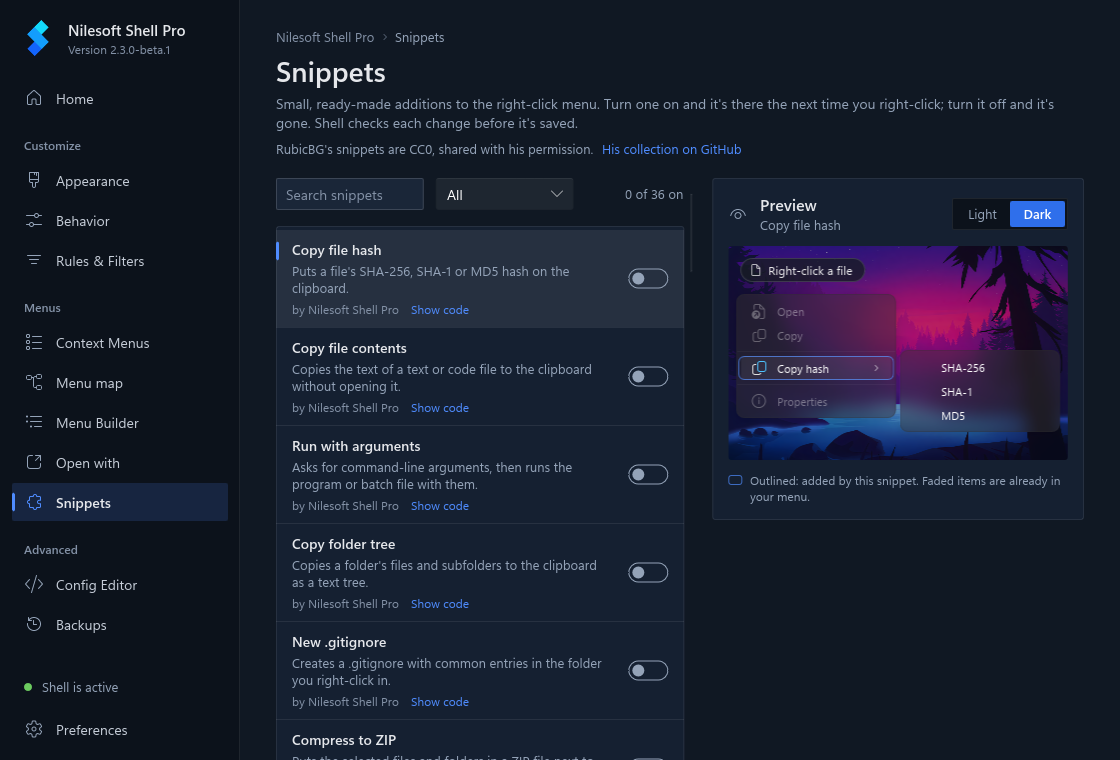
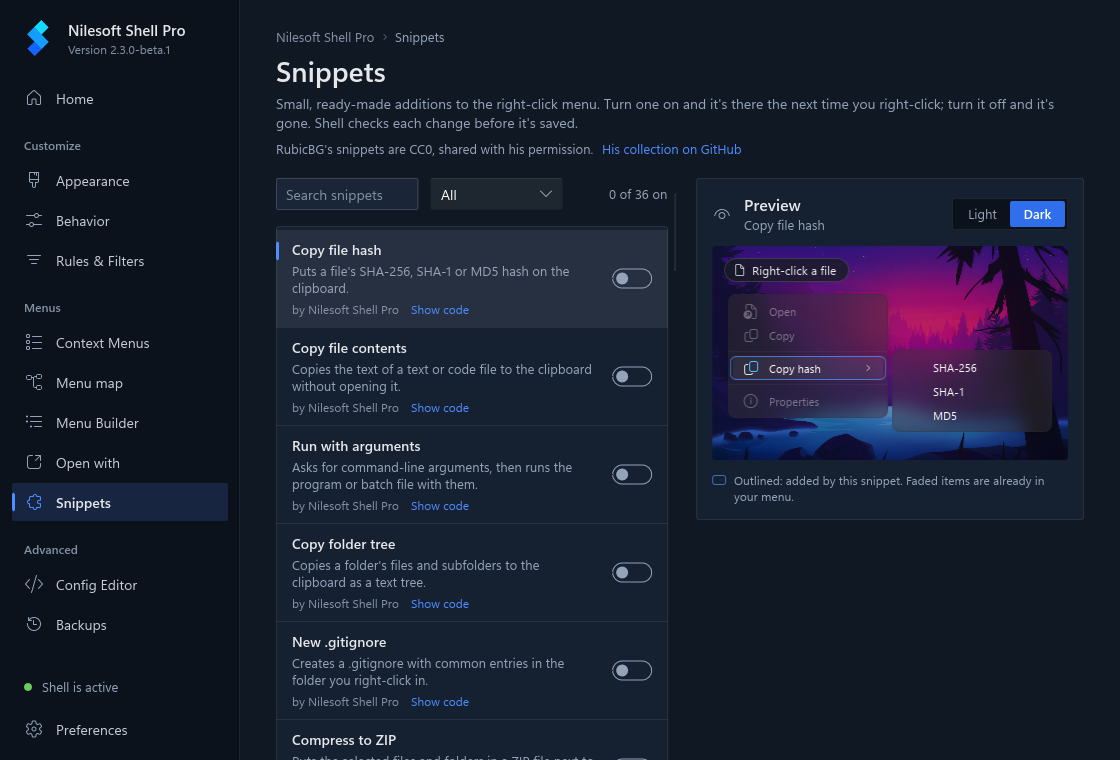
docs: Snippets preview example names; new Snippets page screenshot

diff --git a/docs/app/snippets.html b/docs/app/snippets.html
@@ -54,7 +54,9 @@
 	<li>When a snippet adds items in more than one place, buttons above the menu switch between them: <i>File</i>,
 		<i>Folder</i>, <i>Background</i> (the empty space in a folder), <i>Desktop</i>, <i>Drive</i> and
 		<i>Taskbar</i>.</li>
-	<li>An item whose name comes from what you right-click shows <i>Name from the selection</i> in italics.</li>
+	<li>An item whose name comes from what you right-click shows an example, such as <i>D:\Work\report.txt</i> for a
+		snippet that copies a file's path. Items that only show in some cases, such as a bookmark you haven't saved
+		yet, are left out. When the app can't work out a name, it shows <i>Name from the selection</i> in italics.</li>
 	<li>A snippet that only changes or hides other items has nothing new to show, so you see a short note and its
 		code instead. When the app can't build the preview, it says why; <i>Show code</i> under that shows the
 		snippet's code.</li>
